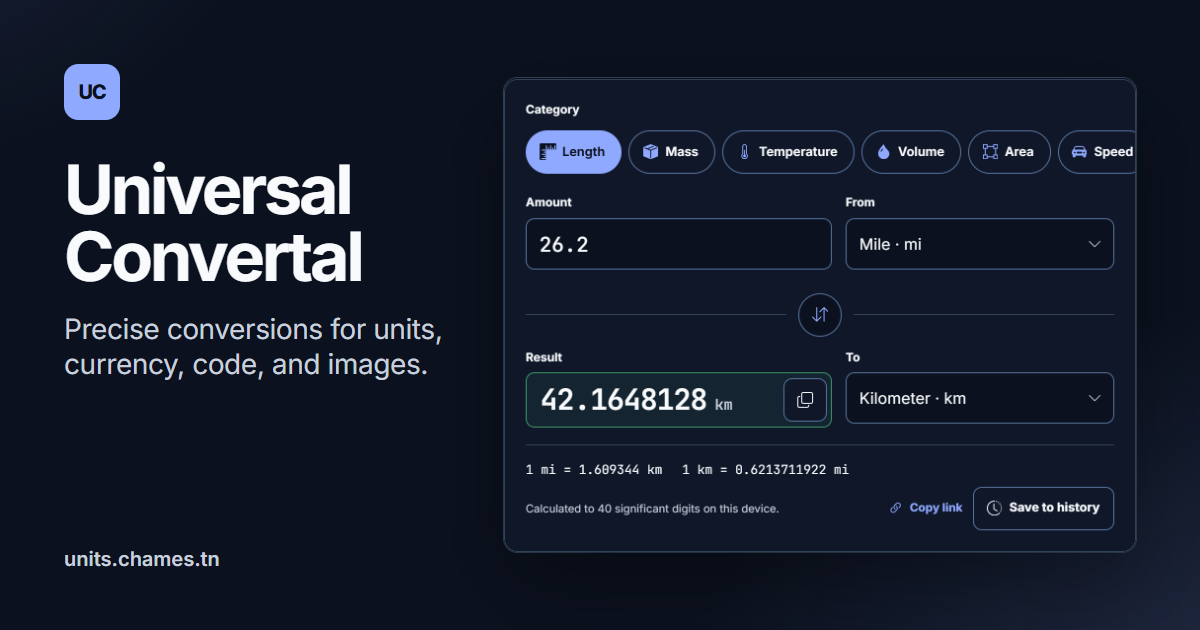
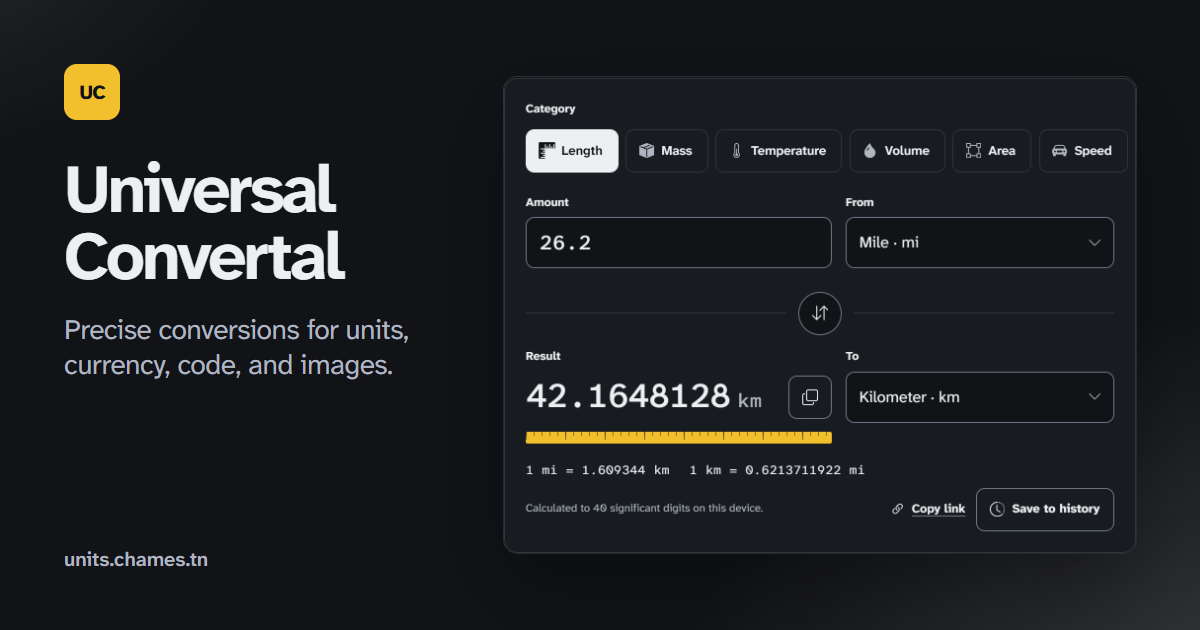
refactor: update fonts to Atkinson Hyperlegible for improved readability

diff --git a/apps/web/app/globals.css b/apps/web/app/globals.css
@@ -2,29 +2,35 @@
 @tailwind components;
 @tailwind utilities;
 
+/* Size-matched local fallbacks for Atkinson Hyperlegible, measured from the web fonts in Chrome, so the swap does not shift layout. */
+@font-face { font-family: 'Atkinson Next Fallback'; src: local('Arial'), local('ArialMT'); size-adjust: 99.15%; ascent-override: 98.84%; descent-override: 32.27%; line-gap-override: 0%; }
+@font-face { font-family: 'Atkinson Mono Fallback'; src: local('Courier New'), local('CourierNewPSMT'); size-adjust: 105.32%; ascent-override: 93.05%; descent-override: 30.38%; line-gap-override: 0%; }
+
 :root {
-  --background: 216 25% 97%; --foreground: 220 43% 11%; --card: 0 0% 100%; --card-foreground: 220 43% 11%; --popover: 0 0% 100%; --popover-foreground: 220 43% 11%; --primary: 220 87% 51%; --primary-hover: 222 81% 36%; --primary-foreground: 0 0% 100%; --secondary: 216 20% 95%; --secondary-foreground: 220 43% 11%; --muted: 216 20% 95%; --muted-foreground: 217 19% 31%; --accent: 20 88% 40%; --accent-foreground: 0 0% 100%; --destructive: 4 81% 40%; --destructive-foreground: 0 0% 100%; --success: 159 90% 24%; --success-foreground: 0 0% 100%; --warning: 28 90% 37%; --warning-foreground: 0 0% 100%; --border: 216 16% 84%; --input: 216 16% 84%; --control-border: 216 19% 58%; --ring: 220 87% 51%; --radius: 0.75rem; --shadow-panel: 0 1px 2px rgb(16 24 40 / 0.06), 0 8px 24px rgb(16 24 40 / 0.04); --shadow-float: 0 12px 32px rgb(16 24 40 / 0.14);
+  --background: 220 16% 96%; --foreground: 218 16% 10%; --card: 0 0% 100%; --card-foreground: 218 16% 10%; --popover: 0 0% 100%; --popover-foreground: 218 16% 10%; --primary: 218 16% 10%; --primary-hover: 216 13% 24%; --primary-foreground: 0 0% 100%; --secondary: 216 14% 93%; --secondary-foreground: 218 16% 10%; --muted: 216 14% 93%; --muted-foreground: 217 11% 33%; --accent: 20 88% 40%; --accent-foreground: 0 0% 100%; --destructive: 4 81% 40%; --destructive-foreground: 0 0% 100%; --success: 159 90% 24%; --success-foreground: 0 0% 100%; --warning: 28 90% 37%; --warning-foreground: 0 0% 100%; --border: 216 13% 85%; --input: 216 13% 85%; --control-border: 216 8% 51%; --ring: 218 16% 10%; --radius: 0.75rem; --shadow-panel: 0 1px 2px rgb(21 24 29 / 0.05); --shadow-float: 0 12px 32px rgb(21 24 29 / 0.14);
+  /* Tape-measure yellow marks the reading. Decorative only: it never carries state or text on its own. */
+  --highlight: 45 88% 56%; --highlight-foreground: 218 16% 10%;
 }
 /* Motion tokens: short, local, transform/opacity only; reduced motion zeroes them below. */
 :root { --dur-fast: 120ms; --dur-base: 200ms; --dur-slow: 320ms; --ease-out: cubic-bezier(0.22, 1, 0.36, 1); --ease-spring: cubic-bezier(0.34, 1.4, 0.64, 1); }
-  .dark { color-scheme: dark; --background: 222 47% 8%; --foreground: 210 40% 98%; --card: 222 47% 11%; --card-foreground: 210 40% 98%; --popover: 222 47% 11%; --popover-foreground: 210 40% 98%; --primary: 226 100% 78%; --primary-hover: 226 100% 85%; --primary-foreground: 222 47% 8%; --secondary: 216 28% 16%; --secondary-foreground: 210 40% 98%; --muted: 216 28% 16%; --muted-foreground: 214 23% 82%; --accent: 20 100% 77%; --accent-foreground: 222 47% 8%; --destructive: 0 80% 78%; --destructive-foreground: 222 47% 8%; --success: 142 71% 63%; --success-foreground: 222 47% 8%; --warning: 28 98% 73%; --warning-foreground: 222 47% 8%; --border: 215 28% 27%; --input: 215 28% 27%; --control-border: 215 28% 48%; --ring: 226 100% 78%; --shadow-panel: 0 1px 2px rgb(0 0 0 / 0.26), 0 12px 30px rgb(0 0 0 / 0.18); --shadow-float: 0 16px 36px rgb(0 0 0 / 0.4); }
+  .dark { color-scheme: dark; --background: 220 15% 8%; --foreground: 216 15% 94%; --card: 218 14% 11%; --card-foreground: 216 15% 94%; --popover: 218 14% 11%; --popover-foreground: 216 15% 94%; --primary: 216 15% 94%; --primary-hover: 216 12% 80%; --primary-foreground: 220 15% 8%; --secondary: 216 13% 15%; --secondary-foreground: 216 15% 94%; --muted: 216 13% 15%; --muted-foreground: 215 12% 72%; --accent: 20 100% 77%; --accent-foreground: 222 47% 8%; --destructive: 0 80% 78%; --destructive-foreground: 222 47% 8%; --success: 142 71% 63%; --success-foreground: 222 47% 8%; --warning: 28 98% 73%; --warning-foreground: 222 47% 8%; --border: 215 11% 21%; --input: 215 11% 21%; --control-border: 214 9% 48%; --ring: 216 15% 94%; --shadow-panel: 0 1px 2px rgb(0 0 0 / 0.3); --shadow-float: 0 16px 36px rgb(0 0 0 / 0.45); --highlight: 45 88% 56%; --highlight-foreground: 220 15% 8%; }
 
 @layer base {
   * { @apply border-border; }
   html { color-scheme: light; scroll-behavior: smooth; }
-  body { @apply bg-background text-foreground; margin: 0; min-width: 320px; font-family: var(--font-sans), Inter, ui-sans-serif, system-ui, sans-serif; }
+  body { @apply bg-background text-foreground; margin: 0; min-width: 320px; font-family: var(--font-sans), ui-sans-serif, system-ui, sans-serif; }
   button, input, select, textarea { font: inherit; }
   :focus-visible { outline: 2px solid hsl(var(--ring)); outline-offset: 3px; }
 }
 
 @layer components {
-  .app-shell { min-height: 100vh; background: radial-gradient(circle at 90% -20%, hsl(var(--primary) / 0.07), transparent 35%), hsl(var(--background)); }
+  .app-shell { min-height: 100vh; background: hsl(var(--background)); }
   .skip-link { position: fixed; left: 1rem; top: -5rem; z-index: 100; border-radius: 0.5rem; background: hsl(var(--foreground)); color: hsl(var(--background)); padding: 0.7rem 1rem; font-size: 0.875rem; font-weight: 700; transition: top 150ms ease; }
   .skip-link:focus { top: 1rem; }
   .app-header { position: sticky; top: 0; z-index: 40; border-bottom: 1px solid hsl(var(--border) / 0.8); background: hsl(var(--background) / 0.88); backdrop-filter: blur(16px); }
   .header-inner { display: flex; min-height: 4.5rem; align-items: center; gap: 1.5rem; margin: 0 auto; max-width: 1440px; padding: 0 2rem; }
   .brand { display: inline-flex; min-width: 10.25rem; align-items: center; gap: 0.7rem; color: hsl(var(--foreground)); text-decoration: none; }
-  .brand-mark { display: grid; width: 2rem; height: 2rem; place-items: center; border-radius: 0.6rem; background: hsl(var(--primary)); color: hsl(var(--primary-foreground)); font-size: 0.7rem; font-weight: 800; letter-spacing: -0.06em; transition: transform var(--dur-base) var(--ease-spring); }
+  .brand-mark { display: grid; width: 2rem; height: 2rem; place-items: center; border-radius: 0.5rem; background: hsl(var(--highlight)); color: hsl(var(--highlight-foreground)); box-shadow: inset 0 0 0 1px hsl(var(--highlight-foreground) / 0.12); font-size: 0.72rem; font-weight: 800; letter-spacing: -0.04em; transition: transform var(--dur-base) var(--ease-spring); }
   .brand:hover .brand-mark { transform: rotate(-8deg) scale(1.05); }
   .brand strong, .brand small { display: block; line-height: 1; }
   .brand strong { font-size: 0.94rem; letter-spacing: -0.02em; }
@@ -47,14 +53,16 @@
   .top-nav a svg, .mobile-nav a svg { width: 0.95rem; height: 0.95rem; flex: none; transition: transform var(--dur-base) var(--ease-spring); }
   .top-nav a:hover svg, .mobile-nav a:hover svg { transform: translateY(-1px) scale(1.1); }
   .top-nav a { padding: 0.5rem 0.7rem; }
-  .top-nav a:hover, .top-nav a.active, .mobile-nav a:hover, .mobile-nav a.active { background: hsl(var(--primary) / 0.1); color: hsl(var(--primary)); }
+  .top-nav a:hover, .mobile-nav a:hover { background: hsl(var(--muted)); color: hsl(var(--foreground)); }
+  /* The current page reads as ink text on an ink rule, not as a tinted pill. */
+  .top-nav a.active, .mobile-nav a.active { color: hsl(var(--foreground)); box-shadow: inset 0 -2px 0 hsl(var(--foreground)); border-radius: 0.45rem 0.45rem 0 0; }
   .header-actions { display: flex; align-items: center; gap: 0.65rem; margin-left: auto; }
   .about-link, .back-link { color: hsl(var(--muted-foreground)); font-size: 0.78rem; font-weight: 650; text-decoration: none; }
   .about-link { display: inline-flex; min-width: 44px; min-height: 44px; align-items: center; justify-content: center; gap: 0.35rem; }
   .about-link svg { width: 0.9rem; height: 0.9rem; }
-  .about-link:hover, .back-link:hover { color: hsl(var(--primary)); }
+  .about-link:hover, .back-link:hover { color: hsl(var(--foreground)); text-decoration: underline; text-underline-offset: 0.2em; }
   .icon-button { display: inline-grid; width: 2.75rem; height: 2.75rem; flex: none; place-items: center; border: 1px solid hsl(var(--control-border)); border-radius: 0.55rem; background: hsl(var(--card)); color: hsl(var(--foreground)); cursor: pointer; transition: background-color 150ms ease, border-color 150ms ease, color 150ms ease, transform var(--dur-fast) var(--ease-out); }
-  .icon-button:hover { border-color: hsl(var(--primary)); background: hsl(var(--primary) / 0.08); color: hsl(var(--primary)); }
+  .icon-button:hover { border-color: hsl(var(--foreground)); background: hsl(var(--muted)); color: hsl(var(--foreground)); }
   .icon-button:active { transform: scale(0.94); }
   .icon-button svg { width: 1rem; height: 1rem; }
   .icon-button-done, .icon-button-done:hover { border-color: hsl(var(--success)); background: hsl(var(--success) / 0.08); color: hsl(var(--success)); }
@@ -68,7 +76,7 @@
   .active-column { min-width: 0; }
   .tool-heading { display: flex; align-items: flex-start; justify-content: space-between; gap: 1.5rem; margin-bottom: 1.4rem; }
   .tool-title { display: flex; min-width: 0; align-items: flex-start; gap: 0.9rem; }
-  .tool-icon { display: grid; flex: none; width: 2.9rem; height: 2.9rem; place-items: center; border-radius: 0.85rem; background: hsl(var(--primary) / 0.1); color: hsl(var(--primary)); }
+  .tool-icon { display: grid; flex: none; width: 2.9rem; height: 2.9rem; place-items: center; border: 1px solid hsl(var(--border)); border-radius: 0.7rem; background: hsl(var(--card)); color: hsl(var(--foreground)); }
   .tool-icon svg { width: 1.35rem; height: 1.35rem; }
   .heading-with-icon { display: flex; align-items: center; gap: 0.5rem; }
   .heading-with-icon > svg { width: 1rem; height: 1rem; flex: none; color: hsl(var(--primary)); }
@@ -76,8 +84,8 @@
   .message-with-icon > svg { width: 0.85rem; height: 0.85rem; flex: none; margin-top: 0.12rem; }
   .eyebrow { margin: 0 0 0.55rem; color: hsl(var(--primary)); font-size: 0.69rem; font-weight: 800; letter-spacing: 0.12em; text-transform: uppercase; }
   .about-page h1 { margin: 0; color: hsl(var(--foreground)); font-size: clamp(1.75rem, 3.4vw, 2.45rem); letter-spacing: -0.05em; line-height: 1.05; }
-  .tool-heading h1 { margin: 0; color: hsl(var(--foreground)); font-size: clamp(1.5rem, 2.6vw, 2rem); letter-spacing: -0.035em; line-height: 1.1; }
-  .tool-description { max-width: 40rem; margin: 0.45rem 0 0; color: hsl(var(--muted-foreground)); font-size: 0.92rem; line-height: 1.5; }
+  .tool-heading h1 { margin: 0; color: hsl(var(--foreground)); font-size: clamp(1.6rem, 2.8vw, 2.15rem); font-weight: 700; letter-spacing: -0.02em; line-height: 1.1; text-wrap: balance; }
+  .tool-description { max-width: 40rem; margin: 0.45rem 0 0; color: hsl(var(--muted-foreground)); font-size: 0.95rem; line-height: 1.5; text-wrap: pretty; }
   .status-pill { display: inline-flex; flex: none; align-items: center; gap: 0.4rem; border: 1px solid hsl(var(--border)); border-radius: 999px; padding: 0.38rem 0.65rem; color: hsl(var(--muted-foreground)); font-size: 0.7rem; font-weight: 700; white-space: nowrap; }
   .status-pill svg { width: 0.85rem; height: 0.85rem; }
   .status-success { border-color: hsl(var(--success) / 0.3); background: hsl(var(--success) / 0.08); color: hsl(var(--success)); }
@@ -106,7 +114,7 @@
   .select-wrap select { width: 100%; appearance: none; border: 0; border-radius: inherit; outline: 0; background-color: hsl(var(--background)); color: hsl(var(--foreground)); cursor: pointer; padding: 0.7rem 2.2rem 0.7rem 0.8rem; }
   .select-wrap svg { position: absolute; right: 0.7rem; pointer-events: none; width: 0.9rem; height: 0.9rem; color: hsl(var(--muted-foreground)); }
   .swap-button { display: inline-grid; width: 2.75rem; height: 2.75rem; place-items: center; margin-bottom: 0.12rem; border: 1px solid hsl(var(--control-border)); border-radius: 0.6rem; background: hsl(var(--background)); color: hsl(var(--primary)); cursor: pointer; transition: background-color 150ms ease, border-color 150ms ease, transform 150ms ease; }
-  .swap-button:hover { border-color: hsl(var(--primary)); background: hsl(var(--primary) / 0.08); }
+  .swap-button:hover { border-color: hsl(var(--foreground)); background: hsl(var(--muted)); }
   .swap-button:active { transform: scale(0.94); }
   .swap-button svg { width: 1.05rem; height: 1.05rem; transition: transform var(--dur-slow) var(--ease-spring); }
   .placeholder-result { color: hsl(var(--muted-foreground)); font: 0.82rem var(--font-sans), sans-serif; }
@@ -117,9 +125,9 @@
   .category-chip { position: relative; display: inline-flex; flex: none; }
   /* z-index keeps the real radio above the transformed face so it receives pointer input. */
   .category-chip input { position: absolute; inset: 0; z-index: 1; width: 100%; height: 100%; margin: 0; opacity: 0; cursor: pointer; }
-  .category-chip span { display: inline-flex; min-height: 2.75rem; align-items: center; gap: 0.45rem; border: 1px solid hsl(var(--control-border)); border-radius: 999px; background: hsl(var(--card)); padding: 0 1rem 0 0.85rem; color: hsl(var(--foreground)); font-size: 0.8rem; font-weight: 650; white-space: nowrap; transition: background-color 150ms ease, border-color 150ms ease, color 150ms ease, transform var(--dur-fast) var(--ease-out); }
-  .category-chip span svg { width: 0.95rem; height: 0.95rem; flex: none; color: hsl(var(--primary)); transition: transform var(--dur-base) var(--ease-spring); }
-  .category-chip:hover span { border-color: hsl(var(--primary)); color: hsl(var(--primary)); }
+  .category-chip span { display: inline-flex; min-height: 2.75rem; align-items: center; gap: 0.45rem; border: 1px solid hsl(var(--border)); border-radius: 0.55rem; background: hsl(var(--card)); padding: 0 0.95rem 0 0.8rem; color: hsl(var(--foreground)); font-size: 0.82rem; font-weight: 600; white-space: nowrap; transition: background-color 150ms ease, border-color 150ms ease, color 150ms ease, transform var(--dur-fast) var(--ease-out); }
+  .category-chip span svg { width: 0.95rem; height: 0.95rem; flex: none; color: hsl(var(--muted-foreground)); transition: transform var(--dur-base) var(--ease-spring); }
+  .category-chip:hover span { border-color: hsl(var(--foreground)); }
   .category-chip:hover span svg { transform: translateY(-1px) scale(1.12); }
   .category-chip:active span { transform: scale(0.96); }
   .category-chip input:checked + span { border-color: hsl(var(--primary)); background: hsl(var(--primary)); color: hsl(var(--primary-foreground)); }
@@ -133,16 +141,23 @@
   .swap-divider { display: flex; align-items: center; gap: 0.75rem; margin: 0 0 0.75rem; }
   .swap-divider::before, .swap-divider::after { content: ''; flex: 1; border-top: 1px solid hsl(var(--border)); }
   .swap-divider .swap-button { margin: 0; border-radius: 999px; }
-  .result-output { display: flex; min-height: 3.25rem; align-items: center; justify-content: space-between; gap: 0.6rem; border: 1px solid hsl(var(--control-border)); border-radius: 0.55rem; background: hsl(var(--muted) / 0.55); padding: 0.25rem 0.25rem 0.25rem 0.85rem; transition: border-color var(--dur-base) ease, background-color var(--dur-base) ease; }
+  /* The result is a readout, not another field: the largest text in the workspace, set on the panel itself. */
+  /* Size the reading from its own column, not the viewport, so typical results stay on one line. */
+  .result-output { display: flex; min-height: 3.25rem; align-items: center; justify-content: space-between; gap: 0.6rem; container-type: inline-size; }
   .result-output .result-value { display: inline-block; }
   .value-enter { animation: value-in var(--dur-base) var(--ease-out) both; }
-  .result-output.result-ready { border-color: hsl(var(--success) / 0.6); background: hsl(var(--success) / 0.06); }
-  .result-output output { display: block; min-width: 0; padding: 0.35rem 0; }
-  .result-value { min-width: 0; color: hsl(var(--foreground)); font: 650 clamp(1.2rem, 5.2vw, 1.85rem)/1.15 var(--font-mono), monospace; font-variant-numeric: tabular-nums; letter-spacing: -0.03em; overflow-wrap: anywhere; }
+  .result-output output { display: flex; min-width: 0; flex-wrap: wrap; align-items: baseline; }
+  /* Fit --chars glyphs (0.6em each) beside the copy button and unit; wrap only below the minimum size. */
+  .result-value { min-width: 0; color: hsl(var(--foreground)); font: 500 clamp(1.25rem, calc((100cqi - 6.25rem) / (var(--chars, 12) * 0.6)), 2.85rem)/1.05 var(--font-mono), monospace; font-variant-numeric: tabular-nums; letter-spacing: -0.04em; overflow-wrap: anywhere; }
   .result-value sup { font-size: 0.55em; }
-  .times-ten { font-weight: 500; white-space: nowrap; }
-  .result-unit { margin-left: 0.5rem; color: hsl(var(--muted-foreground)); font: 600 0.95rem var(--font-mono), monospace; white-space: nowrap; }
-  .converter-meta { display: grid; gap: 0.5rem; margin-top: 1.1rem; border-top: 1px solid hsl(var(--border)); padding-top: 0.9rem; }
+  .times-ten { font-weight: 400; white-space: nowrap; }
+  .result-unit { margin-left: 0.45rem; color: hsl(var(--muted-foreground)); font: 500 clamp(1rem, 3vw, 1.25rem) var(--font-mono), monospace; white-space: nowrap; }
+  .converter-meta { display: grid; gap: 0.5rem; margin-top: 1.1rem; }
+  /* A measuring-tape strip directly under the reading; graduations every 8px, majors every 40px. */
+  .result-field::after { content: ''; height: 0.75rem; margin-top: 0.15rem; border-radius: 2px; background:
+    repeating-linear-gradient(90deg, hsl(var(--highlight-foreground) / 0.55) 0 1px, transparent 1px 40px) 0 0 / 100% 70% no-repeat,
+    repeating-linear-gradient(90deg, hsl(var(--highlight-foreground) / 0.45) 0 1px, transparent 1px 8px) 0 0 / 100% 35% no-repeat,
+    hsl(var(--highlight)); }
   .relation { display: flex; flex-wrap: wrap; gap: 0.25rem 1.25rem; margin: 0; padding: 0; list-style: none; color: hsl(var(--foreground)); font: 0.8rem/1.5 var(--font-mono), monospace; font-variant-numeric: tabular-nums; }
   .relation sup, .unit-table sup { font-size: 0.7em; }
   .meta-row { display: flex; flex-wrap: wrap; align-items: center; justify-content: space-between; gap: 0.25rem 1rem; }
@@ -150,16 +165,21 @@
   .meta-actions { display: flex; flex-wrap: wrap; align-items: center; gap: 0.25rem; }
   .icon-text-button { gap: 0.4rem; }
   .icon-text-button svg { width: 0.95rem; height: 0.95rem; }
-  .unit-table { margin-top: 1.6rem; }
-  .unit-table h2 { margin: 0 0 0.75rem; font-size: 1rem; letter-spacing: -0.02em; }
-  .unit-table ul { display: grid; grid-template-columns: repeat(auto-fill, minmax(15rem, 1fr)); gap: 0.5rem; margin: 0; padding: 0; list-style: none; }
-  .unit-table button { display: flex; width: 100%; min-height: 2.75rem; align-items: baseline; justify-content: space-between; gap: 1rem; border: 1px solid hsl(var(--border)); border-radius: 0.55rem; background: hsl(var(--card)); padding: 0.7rem 0.85rem; color: hsl(var(--foreground)); cursor: pointer; text-align: left; transition: background-color 150ms ease, border-color 150ms ease, transform var(--dur-fast) var(--ease-out); }
-  .unit-table button:hover { border-color: hsl(var(--primary)); transform: translateY(-1px); }
-  .unit-table button:active { transform: scale(0.98); }
+  /* Set like a printed conversion table: ruled rows with dot leaders, not a grid of cards. */
+  .unit-table { margin-top: 2rem; }
+  .unit-table h2 { margin: 0 0 0.6rem; font-size: 1.05rem; font-weight: 700; letter-spacing: -0.01em; text-wrap: balance; }
+  .unit-table ul { display: grid; grid-template-columns: repeat(auto-fill, minmax(18rem, 1fr)); gap: 0 2rem; margin: 0; border-top: 1px solid hsl(var(--border)); padding: 0; list-style: none; }
+  .unit-table li { border-bottom: 1px solid hsl(var(--border)); }
+  .unit-table button { display: flex; width: 100%; min-height: 2.75rem; align-items: baseline; justify-content: space-between; gap: 0.6rem; border: 0; border-radius: 0; background: transparent; padding: 0.75rem 0.6rem; color: hsl(var(--foreground)); cursor: pointer; text-align: left; transition: background-color 150ms ease; }
+  .unit-table button:hover { background: hsl(var(--muted)); }
   .list-enter > li { animation: fade-up var(--dur-base) var(--ease-out) both; animation-delay: calc(var(--i, 0) * 20ms); }
-  .unit-table button[aria-pressed='true'] { border-color: hsl(var(--primary)); background: hsl(var(--primary) / 0.07); }
-  .unit-name { flex: none; color: hsl(var(--muted-foreground)); font-size: 0.76rem; }
-  .unit-amount { min-width: 0; font: 0.84rem var(--font-mono), monospace; font-variant-numeric: tabular-nums; overflow-wrap: anywhere; text-align: right; }
+  /* The ink rule carries the selected state; the yellow wash only echoes the reading above. */
+  .unit-table button[aria-pressed='true'] { background: hsl(var(--highlight) / 0.16); box-shadow: inset 3px 0 0 hsl(var(--foreground)); }
+  .unit-table button[aria-pressed='true'] .unit-name { color: hsl(var(--foreground)); font-weight: 700; }
+  .unit-table button[aria-pressed='true'] .unit-amount { font-weight: 700; }
+  .unit-name { display: flex; flex: 1 1 auto; min-width: 0; align-items: baseline; gap: 0.6rem; color: hsl(var(--muted-foreground)); font-size: 0.86rem; }
+  .unit-name::after { content: ''; flex: 1; min-width: 0.75rem; border-bottom: 1px dotted hsl(var(--control-border)); }
+  .unit-amount { flex: 0 1 auto; min-width: 0; font: 0.9rem var(--font-mono), monospace; font-variant-numeric: tabular-nums; overflow-wrap: anywhere; text-align: right; }
   .result-summary { display: flex; align-items: center; justify-content: space-between; gap: 1.5rem; margin-top: 1.5rem; border: 1px solid hsl(var(--primary) / 0.25); border-radius: 0.7rem; background: hsl(var(--primary) / 0.055); padding: 1rem; }
   .result-summary > div { min-width: 0; max-width: 100%; }
   .result-label { display: block; margin-bottom: 0.35rem; color: hsl(var(--muted-foreground)); font-size: 0.75rem; font-weight: 650; }
@@ -178,14 +198,15 @@
   .button-primary { background: hsl(var(--primary)); color: hsl(var(--primary-foreground)); }
   .button-primary:hover:not(:disabled) { background: hsl(var(--primary-hover)); }
   .button-secondary { border-color: hsl(var(--control-border)); background: hsl(var(--card)); color: hsl(var(--foreground)); }
-  .button-secondary:hover { border-color: hsl(var(--primary)); background: hsl(var(--primary) / 0.07); color: hsl(var(--primary)); }
+  .button-secondary:hover:not(:disabled) { border-color: hsl(var(--foreground)); background: hsl(var(--muted)); }
   .inline-note { display: flex; align-items: flex-start; gap: 0.55rem; margin-top: 1.25rem; border-radius: 0.55rem; background: hsl(var(--muted)); padding: 0.75rem; color: hsl(var(--muted-foreground)); font-size: 0.76rem; line-height: 1.5; }
   .inline-note svg { width: 1rem; height: 1rem; flex: none; margin-top: 0.1rem; color: hsl(var(--primary)); }
   .note-danger { background: hsl(var(--destructive) / 0.07); color: hsl(var(--destructive)); animation: fade-up var(--dur-base) var(--ease-out) both; }
   .note-danger svg { color: currentColor; }
-  .text-button { display: inline-flex; min-width: 44px; min-height: 44px; align-items: center; justify-content: center; border: 0; background: transparent; color: hsl(var(--primary)); cursor: pointer; font-size: 0.73rem; font-weight: 750; padding: 0.1rem 0.4rem; }
-  .text-button:hover { text-decoration: underline; }
-  .context-panel { align-self: start; padding: 1.1rem; }
+  .text-button { display: inline-flex; min-width: 44px; min-height: 44px; align-items: center; justify-content: center; border: 0; background: transparent; color: hsl(var(--foreground)); cursor: pointer; font-size: 0.78rem; font-weight: 700; padding: 0.1rem 0.4rem; text-decoration: underline; text-decoration-color: hsl(var(--control-border)); text-underline-offset: 0.25em; }
+  .text-button:hover { text-decoration-color: currentColor; }
+  /* Secondary context stays flat so the workspace is the only raised surface. */
+  .context-panel { align-self: start; background: transparent; box-shadow: none; padding: 1.1rem; }
   .context-heading { align-items: center; margin-bottom: 1rem; }
   .history-list { display: grid; gap: 0.4rem; margin: 0; padding: 0; list-style: none; }
   .history-undo { align-items: center; justify-content: space-between; margin: 0 0 0.75rem; padding: 0 0 0 0.75rem; animation: fade-up var(--dur-base) var(--ease-out) both; }
@@ -204,14 +225,12 @@
   .history-remove { display: inline-grid; width: 44px; height: 44px; flex: none; place-items: center; align-self: center; margin-right: 0.25rem; border: 0; border-radius: 0.4rem; background: transparent; color: hsl(var(--muted-foreground)); cursor: pointer; }
   .history-remove:hover { background: hsl(var(--destructive) / 0.08); color: hsl(var(--destructive)); }
   .history-remove svg { width: 0.85rem; height: 0.85rem; }
-  .empty-history { display: grid; justify-items: center; gap: 0.45rem; border: 1px dashed hsl(var(--border)); border-radius: 0.65rem; padding: 1.5rem 1rem; text-align: center; }
-  .empty-history svg { width: 1.2rem; height: 1.2rem; }
-  .empty-history .empty-icon { display: grid; width: 2.6rem; height: 2.6rem; place-items: center; margin-bottom: 0.2rem; border-radius: 999px; background: hsl(var(--primary) / 0.1); color: hsl(var(--primary)); }
-  .empty-history p, .empty-history span { margin: 0; font-size: 0.73rem; line-height: 1.45; }
+  .empty-history { display: grid; gap: 0.3rem; }
+  .empty-history p, .empty-history span { margin: 0; font-size: 0.78rem; line-height: 1.5; }
   .empty-history p { color: hsl(var(--foreground)); font-weight: 700; }
   .empty-history span { color: hsl(var(--muted-foreground)); }
   .context-divider { height: 1px; margin: 1.2rem 0; background: hsl(var(--border)); }
-  .privacy-card { display: flex; align-items: flex-start; gap: 0.55rem; border-radius: 0.55rem; background: hsl(var(--success) / 0.07); padding: 0.75rem; }
+  .privacy-card { display: flex; align-items: flex-start; gap: 0.55rem; }
   .privacy-card svg { width: 1rem; height: 1rem; flex: none; color: hsl(var(--success)); }
   .privacy-card strong { display: block; font-size: 0.73rem; }
   .privacy-card p { margin: 0.25rem 0 0; color: hsl(var(--muted-foreground)); font-size: 0.68rem; line-height: 1.45; }
@@ -302,4 +321,9 @@
   *, *::before, *::after { animation-duration: 0.01ms !important; animation-delay: 0ms !important; animation-iteration-count: 1 !important; scroll-behavior: auto !important; transition-duration: 0.01ms !important; transition-delay: 0ms !important; }
   /* Remove hover and press movement too, not only its timing. */
   .swap-button:active, .icon-button:active, .button:active:not(:disabled), .category-chip:active span, .category-chip:hover span svg, .unit-table button:hover, .unit-table button:active, .history-item:hover .history-icon, .dropzone:hover .dropzone-icon, .dropzone-active .dropzone-icon, .brand:hover .brand-mark, .top-nav a:hover svg, .mobile-nav a:hover svg, .search-results a:hover svg, .button:hover:not(:disabled) svg:not(.spin), .image-mode-control button:active:not(:disabled) { transform: none; }
+}
+@media (forced-colors: active) {
+  /* System colors drop the tape's fill; keep a plain rule as the divider. */
+  .result-field::after { height: 0; border-top: 1px solid CanvasText; background: none; }
+  .unit-table button[aria-pressed='true'] { outline: 2px solid Highlight; outline-offset: -2px; }
 }

diff --git a/apps/web/src/components/convertal/Workbench.tsx b/apps/web/src/components/convertal/Workbench.tsx
@@ -1,6 +1,6 @@
 'use client'
 
-import { useCallback, useEffect, useMemo, useRef, useState } from 'react'
+import { Fragment, useCallback, useEffect, useMemo, useRef, useState } from 'react'
 import Link from 'next/link'
 import { usePathname, useRouter } from 'next/navigation'
 import { useTheme } from 'next-themes'
@@ -204,8 +204,18 @@ function normalizeAmount(raw: string): string {
   return /^[+-]?\d{1,3}(?:,\d{3})+(?:\.\d*)?$/.test(compact) ? compact.replace(/,/g, '') : compact
 }
 
+/** Lets long grouped numbers wrap after a digit-group comma before breaking inside a group. */
+function GroupedDigits({ text }: { text: string }) {
+  return <>{text.split(',').map((group, index) => index === 0 ? group : <Fragment key={index}>,<wbr />{group}</Fragment>)}</>
+}
+
+/** Character count the readout sizes itself against, so it fills its column without wrapping. */
+function readoutLength(value: DisplayNumber) {
+  return value.significand.length + (value.exponent === null ? 0 : ` × 10${value.exponent}`.length)
+}
+
 function NumberText({ value }: { value: DisplayNumber }) {
-  if (value.exponent === null) return <>{value.significand}</>
+  if (value.exponent === null) return <GroupedDigits text={value.significand} />
   const exponent = String(value.exponent).replace('-', '−')
   return <><span aria-hidden="true">{value.significand} <span className="times-ten">×{' '}10<sup>{exponent}</sup></span></span><span className="sr-only">{value.significand} times 10 to the power {value.exponent}</span></>
 }
@@ -562,11 +572,11 @@ function UnitsTool({ addHistory, replay }: { addHistory: AddHistory; replay: Rep
           <SwapButton direction="vertical" label="Swap source and target units" onSwap={swap} />
         </div>
         <div className="converter-row">
-          <div className="field-group">
+          <div className="field-group result-field">
             <span className="field-label" id="field-result-label">Result</span>
             <div className={cn('result-output', display && 'result-ready')}>
               <output id="field-result" htmlFor="field-amount field-from field-to" aria-labelledby="field-result-label">
-                {display ? <><strong key={`${display.plain}-${toUnit.id}`} className={cn('result-value', animateResult && 'value-enter')}><NumberText value={display} /></strong><span className="result-unit">{toUnit.symbol}</span></> : <span className="placeholder-result">{placeholder}</span>}
+                {display ? <><strong key={`${display.plain}-${toUnit.id}`} className={cn('result-value', animateResult && 'value-enter')} style={{ '--chars': readoutLength(display) } as React.CSSProperties}><NumberText value={display} /></strong><span className="result-unit">{toUnit.symbol}</span></> : <span className="placeholder-result">{placeholder}</span>}
               </output>
               {display && <CopyButton value={display.plain} label="Copy result" />}
             </div>
@@ -925,7 +935,7 @@ function HistoryPanel({ tool, entries, clear, undoClear, canUndo, remove, onRepl
       <div className="context-heading"><h2 id="recent-title" className="heading-with-icon"><History aria-hidden="true" />Recent</h2>{entries.length > 0 && <button type="button" className="text-button icon-text-button" onClick={clear}><Trash2 aria-hidden="true" />Clear all</button>}</div>
       {canUndo && <div className="inline-note history-undo" role="status"><span>History cleared.</span><button type="button" className="text-button icon-text-button" onClick={undoClear}><Undo aria-hidden="true" />Undo</button></div>}
       {entries.length === 0
-        ? <div className="empty-history"><span className="empty-icon"><History aria-hidden="true" /></span><p>{empty.title}</p><span>{empty.body}</span></div>
+        ? <div className="empty-history"><p>{empty.title}</p><span>{empty.body}</span></div>
         : (
           <ul className="history-list">
             {entries.slice(0, HISTORY_PER_TOOL).map((entry) => (

diff --git a/apps/web/app/layout.tsx b/apps/web/app/layout.tsx
@@ -1,10 +1,12 @@
 import type { Metadata, Viewport } from 'next'
-import { Inter, JetBrains_Mono } from 'next/font/google'
+import { Atkinson_Hyperlegible_Mono, Atkinson_Hyperlegible_Next } from 'next/font/google'
 import './globals.css'
 import { Providers } from './providers'
 
-const inter = Inter({ subsets: ['latin'], variable: '--font-sans' })
-const mono = JetBrains_Mono({ subsets: ['latin'], variable: '--font-mono' })
+// Atkinson Hyperlegible keeps look-alike glyphs (0/O, 1/l/I, 5/S) distinct, which matters when reading results.
+// next/font has no fallback metrics for these families; globals.css defines size-matched local fallbacks.
+const sans = Atkinson_Hyperlegible_Next({ subsets: ['latin'], variable: '--font-sans', adjustFontFallback: false, fallback: ['Atkinson Next Fallback', 'Arial', 'sans-serif'] })
+const mono = Atkinson_Hyperlegible_Mono({ subsets: ['latin'], variable: '--font-mono', adjustFontFallback: false, fallback: ['Atkinson Mono Fallback', 'Courier New', 'monospace'] })
 
 const title = 'Universal Convertal — precise tools for everyday work'
 const description = 'Units, currency, developer, and bounded image conversion tools with clear results and honest context.'
@@ -32,8 +34,8 @@ export const viewport: Viewport = {
   initialScale: 1,
   maximumScale: 5,
   themeColor: [
-      { media: '(prefers-color-scheme: light)', color: '#f7f8fa' },
-      { media: '(prefers-color-scheme: dark)', color: '#0b1220' },
+      { media: '(prefers-color-scheme: light)', color: '#f4f5f7' },
+      { media: '(prefers-color-scheme: dark)', color: '#111317' },
   ],
 }
 
@@ -44,7 +46,7 @@ export default function RootLayout({
 }) {
   return (
     <html lang="en" suppressHydrationWarning>
-      <body className={`${inter.variable} ${mono.variable} ${inter.className}`}>
+      <body className={`${sans.variable} ${mono.variable} ${sans.className}`}>
         <Providers>
           {children}
         </Providers>

diff --git a/system design.md b/system design.md
@@ -1,7 +1,7 @@
 # Universal Convertal system design
 
 **Status:** first-release product and visual system  
-**Updated:** 2026-10-05
+**Updated:** 2026-10-06
 
 Universal Convertal should feel like a dependable technical utility: quick for a one-off conversion, clear when a value is unavailable or stale, and broad enough to support expert workflows without becoming a crowded toolbox. The interface should establish trust through visible units, source metadata, precision, and honest capability boundaries.
 
@@ -45,9 +45,9 @@ Each route receives a stable deep link for its selected category/operation throu
 
 The visual language is calm, crisp, and tool-oriented:
 
-- Use a neutral ink/surface foundation, one high-contrast action color, and one restrained accent for successful output.
-- Keep cards lightly bordered and layered by surface rather than by heavy shadows. Reserve elevation for the active workspace, menus, and transient feedback.
-- Use one readable sans-serif family for interface text and a monospace face for code, values, units, and timestamps. Numeric output uses tabular figures where available.
+- Use a neutral ink/surface foundation, one high-contrast action color, and one restrained accent for successful output. The action color is the ink itself (near-black on light, near-white on dark). The output accent is a tape-measure yellow (`--highlight`), used only as a marker: the tape strip under the unit result, the brand mark, and a wash behind the selected unit row. It is about 1.6:1 against light surfaces, so it never carries text or a state on its own; an ink rule or weight change always accompanies it. Green (`--success`) remains the status color.
+- Keep cards lightly bordered and layered by surface rather than by heavy shadows. Reserve elevation for the active workspace, menus, and transient feedback; the history/context panel stays flat.
+- Use one readable sans-serif family for interface text and a monospace face for code, values, units, and timestamps. Numeric output uses tabular figures where available. The families are Atkinson Hyperlegible Next and Atkinson Hyperlegible Mono, chosen because they keep look-alike glyphs (0/O, 1/l/I, 5/S) distinct when a value is read at a glance. next/font has no fallback metrics for them, so `globals.css` declares size-matched Arial and Courier New fallbacks; with font files delayed by 1.5 s, the measured layout shift on `/`, `/currency`, and `/developer` stayed at or below 0.001.
 - Use icons as labels or supporting affordances, never as the sole explanation of an action. The workbench uses the local filled Bootstrap SVG set in `apps/web/src/components/convertal/FlatIcon.tsx`; copied shadcn primitives may retain their upstream Lucide imports.
 - Keep decorative gradients and background patterns quiet enough that value, unit, and error text remain dominant.
 
@@ -102,7 +102,7 @@ Keep page-specific composition in the route section. A component should not sile
 
 The core conversion should update immediately enough to feel direct; debounce only expensive or network-backed work. Preserve the raw input string so a user can type a partial value, minus sign, decimal separator, or exponent without the UI fighting the edit. Show a neutral empty state before a valid number, an inline validation state for malformed or impossible input, and a result with copy feedback after conversion.
 
-The unit workflow picks a category from keyboard-operable chips (a native radio group), then shows two rows, amount and source unit, then result and target unit, with the swap between them. The result is the largest text in the workspace. Below it, a relationship line (`1 km = 0.621 mi`, or two reference points for affine temperatures) and a list of the same amount in every compatible unit, which also sets the target unit. Target-unit choices only include units of the same kind, so absolute temperatures and temperature differences cannot be paired.
+The unit workflow picks a category from keyboard-operable chips (a native radio group), then shows two rows, amount and source unit, then result and target unit, with the swap between them. The result is the largest text in the workspace: a readout set directly on the panel rather than inside a field, sized from its own column width and character count so typical values stay on one line, and wrapping only between digit groups at the minimum size. Below it, a relationship line (`1 km = 0.621 mi`, or two reference points for affine temperatures) and a list of the same amount in every compatible unit, which also sets the target unit. The list is set like a printed conversion table, with ruled rows and dot leaders, rather than as a grid of cards. Target-unit choices only include units of the same kind, so absolute temperatures and temperature differences cannot be paired.
 
 Display precision policy: unit results show at most 12 significant digits with comma digit grouping. Values below 1e-6, or at and above 1e15, switch to a mantissa and power of ten so small results are not rounded to zero. "Show full precision" reveals up to the 40 significant digits used for calculation. Copy actions copy the ungrouped displayed value. These rules live in `formatSignificant` in `@simple-units/conversion`, separate from arithmetic and parsing. Input accepts English digit grouping (`1,250`), but never treats a comma as a decimal separator.
 
@@ -140,6 +140,12 @@ Keep the default route largely static and lazy-load heavy image/developer module
 - Result formatting distinguishes display precision from calculation precision and exposes the unit/symbol clearly.
 - Reduced motion removes nonessential animation, and scripts failing to load still leave meaningful headings and form labels visible.
 - The same workflow survives direct route load, client navigation, browser back/forward, dark mode, 200% zoom, and a narrow touch viewport.
+## Visual identity — 2026-10-06
+
+The first visual pass used Inter, a saturated blue action color, pill chips with blue icons, a green-tinted result field, and a grid of bordered unit cards. It was usable but read as a generic component kit and did not survive downscaling to a portfolio or link-preview card. The revision grounds the identity in measuring tools: ink and paper surfaces, hyperlegible type, a readout instead of a result field, a tape-measure strip under the reading, and a reference-table unit list. Rejected alternatives: keeping the blue action color (indistinguishable from default component themes); using the yellow for text, focus, or selected states (fails the 3:1 non-text and 4.5:1 text contrast requirements on light surfaces); and IBM Plex or Inter (common defaults with less distinct numerals). The tape strip is a CSS pseudo-element with a forced-colors fallback, so assistive technology does not announce it.
+
+`docs/portfolio/cover-{dark,light}.png` and `apps/web/app/opengraph-image.png` are captured from the real converter by `pnpm --filter @universal-convertal/web cover`; regenerate them after visual changes.
+
 ## Resource hardening — 2026-10-05
 
 The synchronous image route now uses short-lived child processes, with hard
